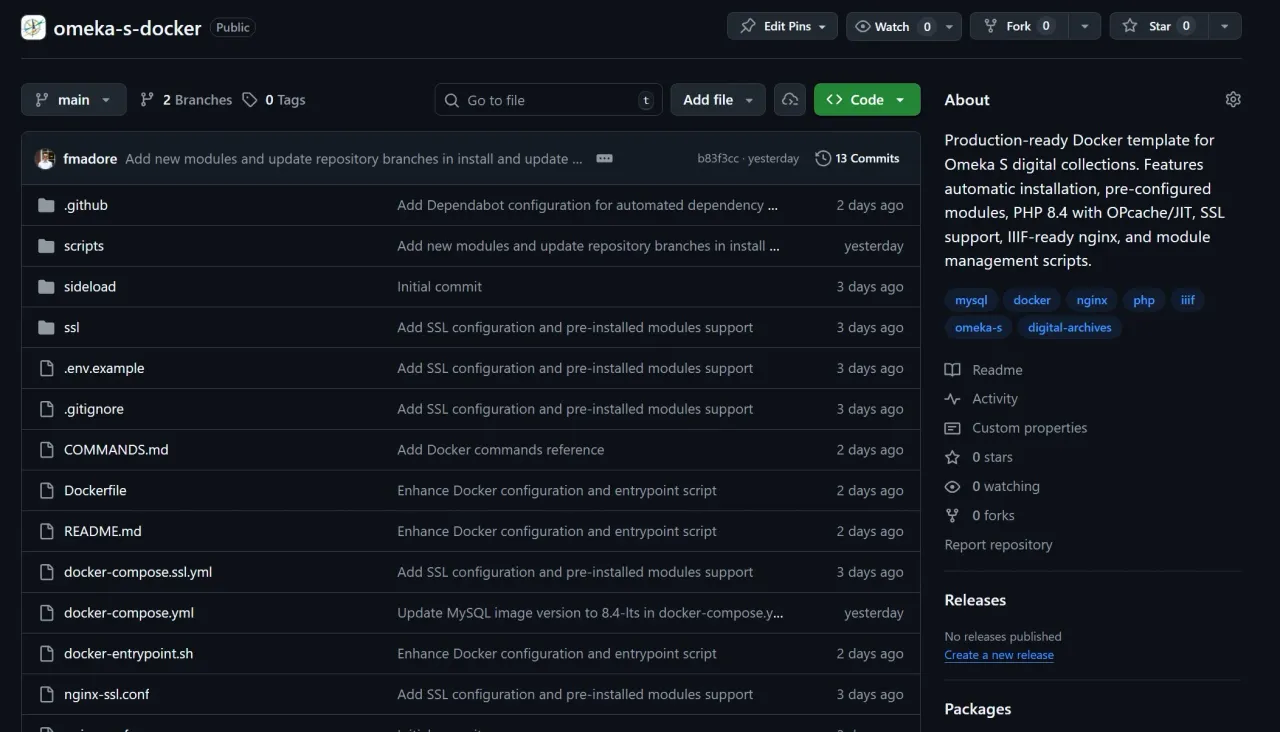
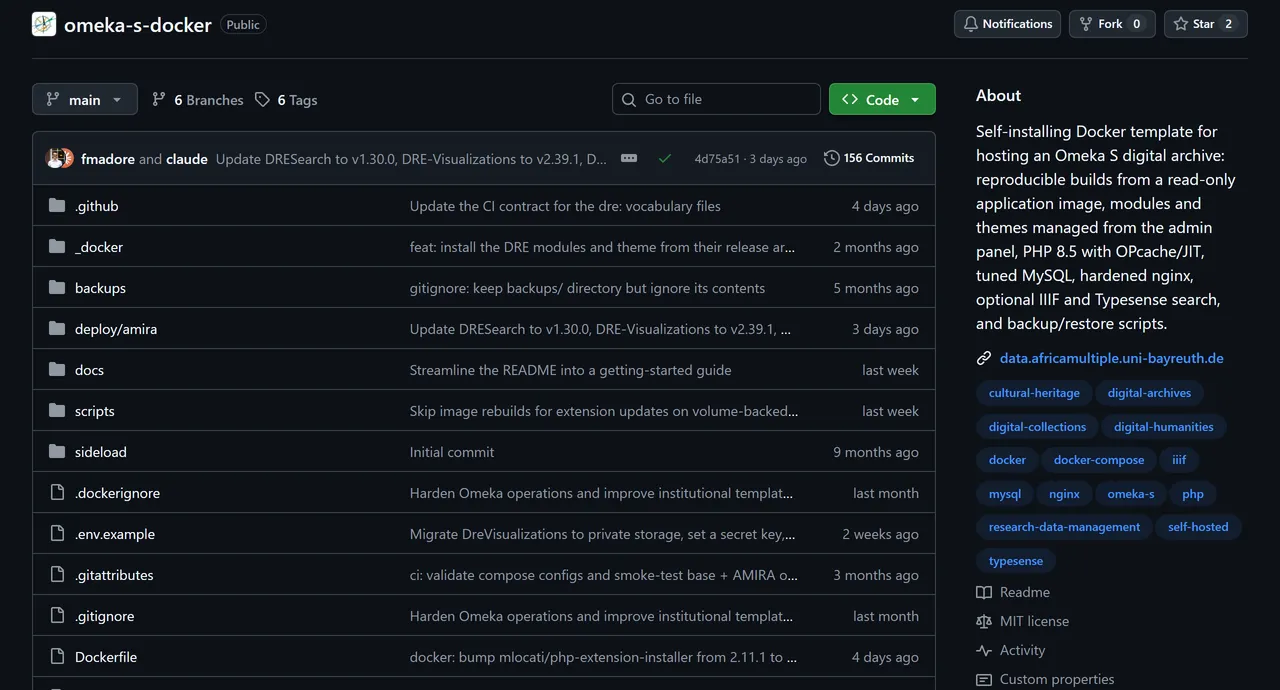
Copy edit the Omeka S Docker template page and refresh its screenshot
Rewrite the description around what the template now does: it installs
itself (with the companion one-command installer and HTTPS), manages
modules and themes from the admin panel, keeps Omeka's code fixed in the
image for safe upgrades and rollbacks, is secure and tuned by default,
backs up and restores in one command, and offers IIIF and Typesense as
options. Merge the overlapping feature paragraph and list, and link AMIRA,
which runs on it.

Replace the first-week GitHub capture with the current repository page,
add the am-omeka-s-docker-bootstrap repository to the links, and add
Typesense, Caddy and GitHub Actions to the methods keywords.

diff --git a/src/lib/data/digital-humanities/omeka-s-docker.ts b/src/lib/data/digital-humanities/omeka-s-docker.ts
@@ -5,20 +5,23 @@ export const omekaSDocker: DigitalHumanitiesProject = {
 	title: 'Omeka S Docker Template',
 	years: '2026',
 	shortDescription:
-		'A reusable Docker template for deploying production-ready Omeka S digital archive installations with automatic setup, module management, and SSL support.',
-	description:
-		'<p>Digital archives and collections play a crucial role in preserving and sharing cultural heritage, yet setting up the infrastructure to host them remains a significant barrier for many research teams. This template removes that barrier by providing a ready-to-use deployment solution for <a href="https://omeka.org/s/" target="_blank" rel="noopener noreferrer">Omeka S</a>, a widely adopted platform for building digital collections and exhibits.</p>' +
-		'<p>Developed as part of my work with the <a href="https://www.africamultiple.uni-bayreuth.de/en/1_5-Digital-Solutions1/index.html" target="_blank" rel="noopener noreferrer">Digital Research Environment (DRE)</a> at the University of Bayreuth\'s <a href="https://www.africamultiple.uni-bayreuth.de/en/index.html" target="_blank" rel="noopener noreferrer">Africa Multiple Cluster of Excellence</a>, this template reflects a commitment to making research infrastructure more accessible. By lowering the technical threshold for deploying digital archives, this tool can help research teams focus on what matters most: curating and sharing their collections according to FAIR principles.</p>' +
-		'<h2>What It Does</h2>' +
-		'<p>The template handles the complete technical setup automatically: database configuration, web server optimisation, and security hardening. Researchers can have a fully functional Omeka S instance running with a single command, complete with essential modules for data import, geospatial mapping, faceted search, and IIIF image viewing.</p>' +
-		'<h2>Key Features</h2>' +
-		'<ul>' +
-		'<li><strong>One-command deployment</strong> with automatic installation and configuration</li>' +
-		'<li><strong>Pre-installed modules</strong> for CSV import, mapping, advanced search, and IIIF viewers</li>' +
-		'<li><strong>Production-ready security</strong> with SSL/TLS encryption and hardened settings</li>' +
-		'<li><strong>Built for sustainability</strong> with standardised configurations that simplify long-term maintenance</li>' +
-		'</ul>' +
-		'<p>This template is designed for research teams, librarians, and digital humanists who want to build digital archives without needing deep systems administration expertise.</p>',
+		'A self-installing Docker template that lets research teams run their own Omeka S digital archive, secure, easy to update and backed up, without being system administrators.',
+	description: `
+		<p><a href="https://omeka.org/s/" target="_blank" rel="noopener noreferrer">Omeka S</a> is one of the most widely used platforms for digital collections and exhibits, but hosting it well remains a barrier for many research teams: servers to configure, security to get right, upgrades that can break a live site. This template takes most of that work away. It runs <a href="/digital-humanities/amira">AMIRA</a>, and I kept it general enough for anyone to host their own archive with it.</p>
+		<p>I developed it with the <a href="https://www.africamultiple.uni-bayreuth.de/en/1_5-Digital-Solutions1/index.html" target="_blank" rel="noopener noreferrer">Digital Research Environment (DRE)</a> of the University of Bayreuth's <a href="https://www.africamultiple.uni-bayreuth.de/en/index.html" target="_blank" rel="noopener noreferrer">Africa Multiple Cluster of Excellence</a>. The aim is simple: let teams spend their time curating and sharing collections according to the FAIR principles, not maintaining servers.</p>
+
+		<h2>What it does</h2>
+		<ul>
+			<li><strong>Installs itself</strong>: on a fresh Linux server, a <a href="https://github.com/AM-Digital-Research-Environment/am-omeka-s-docker-bootstrap" target="_blank" rel="noopener noreferrer">companion installer</a> sets everything up in one command, offers secure HTTPS, and prints the admin login at the end</li>
+			<li><strong>Managed from the browser</strong>: add, update and remove modules and themes from Omeka's own admin panel, with no terminal needed</li>
+			<li><strong>Safe upgrades</strong>: Omeka's code is fixed in the image, so nothing can change it while the site runs, an upgrade is a deliberate step, and going back is easy</li>
+			<li><strong>Secure by default</strong>: nothing runs with administrator rights, the database is never exposed, and the web server, PHP and MySQL come tuned for Omeka</li>
+			<li><strong>Backups in one command</strong>, including moving a site to a new server</li>
+			<li><strong>Optional extras</strong>: IIIF image viewing and fast Typesense search</li>
+			<li><strong>Extendable without forking</strong>: in-house modules and vocabularies sit in a separate layer on top</li>
+		</ul>
+		<p>It is designed for research teams, librarians and digital humanists who want to run a digital archive without deep systems-administration expertise.</p>
+	`,
 	imageUrl: `/images/digital-humanities/omeka-s-docker.webp`,
 	order: 2,
 	links: [
@@ -26,9 +29,26 @@ export const omekaSDocker: DigitalHumanitiesProject = {
 			url: 'https://github.com/AM-Digital-Research-Environment/omeka-s-docker',
 			label: 'omeka-s-docker',
 			type: 'code'
+		},
+		{
+			url: 'https://github.com/AM-Digital-Research-Environment/am-omeka-s-docker-bootstrap',
+			label: 'am-omeka-s-docker-bootstrap',
+			type: 'code'
 		}
 	],
-	skills: ['Docker', 'Nginx', 'PHP', 'MySQL', 'Linux', 'Omeka S', 'IIIF', 'Bash'],
+	skills: [
+		'Docker',
+		'Nginx',
+		'PHP',
+		'MySQL',
+		'Linux',
+		'Bash',
+		'Omeka S',
+		'IIIF',
+		'Typesense',
+		'Caddy',
+		'GitHub Actions'
+	],
 	seoKeywords: [
 		'Omeka S',
 		'Docker',
@@ -39,6 +59,8 @@ export const omekaSDocker: DigitalHumanitiesProject = {
 		'digital humanities',
 		'containerization',
 		'museum collections',
-		'library technology'
+		'library technology',
+		'self-hosted',
+		'research data management'
 	]
 };

diff --git a/src/lib/data/digital-humanities/summaries.generated.ts b/src/lib/data/digital-humanities/summaries.generated.ts
@@ -584,13 +584,18 @@ export const dhProjectSummaries: DigitalHumanitiesSummary[] = [
 		"id": "omeka-s-docker",
 		"title": "Omeka S Docker Template",
 		"years": "2026",
-		"shortDescription": "A reusable Docker template for deploying production-ready Omeka S digital archive installations with automatic setup, module management, and SSL support.",
+		"shortDescription": "A self-installing Docker template that lets research teams run their own Omeka S digital archive, secure, easy to update and backed up, without being system administrators.",
 		"imageUrl": "/images/digital-humanities/omeka-s-docker.webp",
 		"order": 2,
 		"links": [
 			{
 				"url": "https://github.com/AM-Digital-Research-Environment/omeka-s-docker",
 				"label": "omeka-s-docker",
+				"type": "code"
+			},
+			{
+				"url": "https://github.com/AM-Digital-Research-Environment/am-omeka-s-docker-bootstrap",
+				"label": "am-omeka-s-docker-bootstrap",
 				"type": "code"
 			}
 		],
@@ -600,9 +605,12 @@ export const dhProjectSummaries: DigitalHumanitiesSummary[] = [
 			"PHP",
 			"MySQL",
 			"Linux",
+			"Bash",
 			"Omeka S",
 			"IIIF",
-			"Bash"
+			"Typesense",
+			"Caddy",
+			"GitHub Actions"
 		],
 		"seoKeywords": [
 			"Omeka S",
@@ -614,7 +622,9 @@ export const dhProjectSummaries: DigitalHumanitiesSummary[] = [
 			"digital humanities",
 			"containerization",
 			"museum collections",
-			"library technology"
+			"library technology",
+			"self-hosted",
+			"research data management"
 		]
 	},
 	{

diff --git a/src/lib/data/imageVariants.generated.ts b/src/lib/data/imageVariants.generated.ts
@@ -176,7 +176,7 @@ export const imageVariantManifest: Readonly<Record<string, ImageVariantManifestE
 	'digital-humanities/iwac-sentiment-analysis.webp': [1280, 800],
 	'digital-humanities/IWAC.webp': [1280, 690],
 	'digital-humanities/live-translation.webp': [1280, 821],
-	'digital-humanities/omeka-s-docker.webp': [1280, 732],
+	'digital-humanities/omeka-s-docker.webp': [1280, 690],
 	'digital-humanities/remoboko.webp': [1000, 480],
 	'digital-humanities/zmo-ai-pipelines.webp': [1280, 787],
 	'digital-humanities/zmo-visualisations.webp': [1280, 826],
